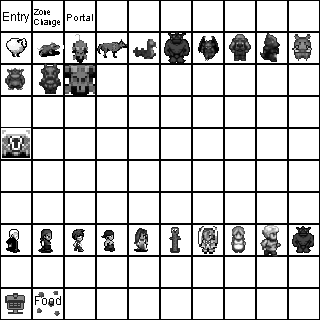
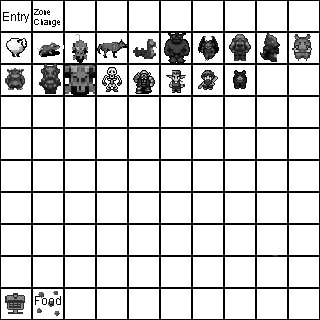
Fixed transparency problems.

diff --git a/src/games/stendhal/client/GameObjects.java b/src/games/stendhal/client/GameObjects.java
@@ -48,6 +48,11 @@ public class GameObjects implements Iterable<Entity>
     register("creature","kobold",NormalCreature.class);
     register("creature","animal",NormalCreature.class);
     register("creature","small animal",SmallCreature.class);
+    register("creature","giant animal",SmallCreature.class);
+    register("creature","dwarf",NormalCreature.class);
+    register("creature","elf",NormalCreature.class);
+    register("creature","skeleton",NormalCreature.class);
+
     register("sheep",null,Sheep.class);    
     
     register("npc",null,NPC.class);
